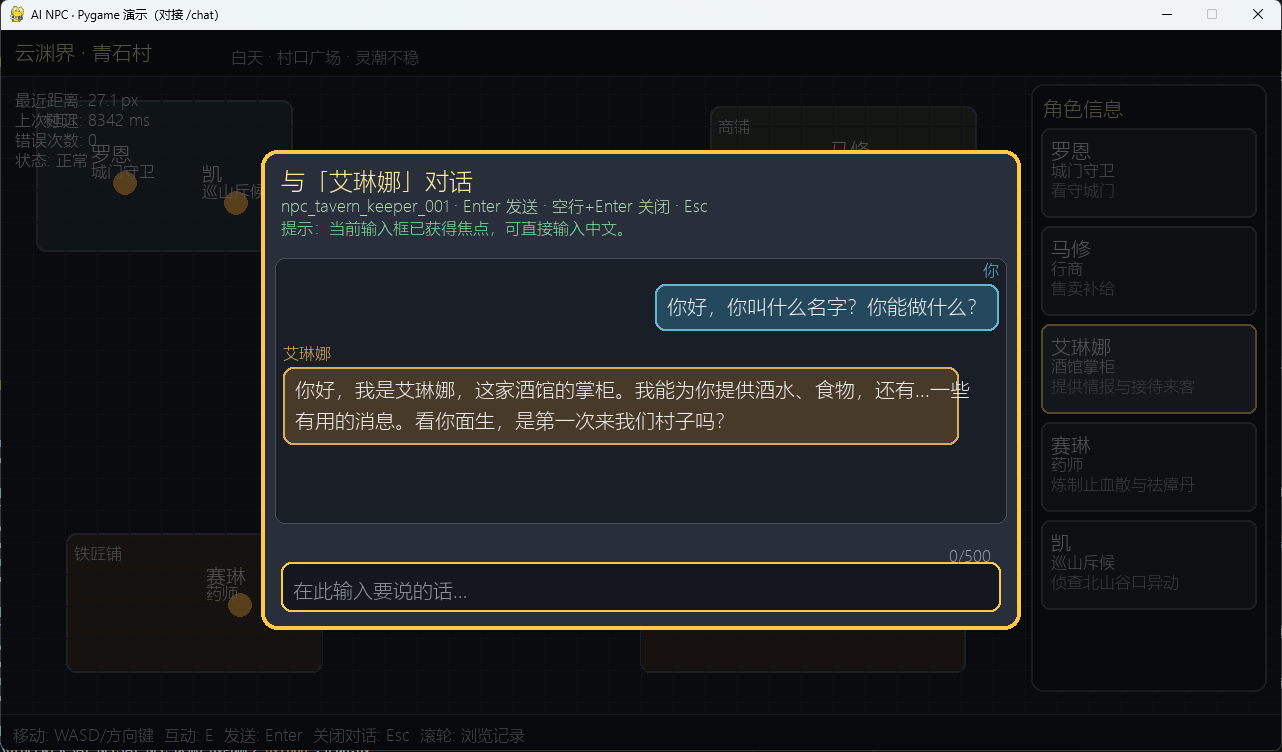
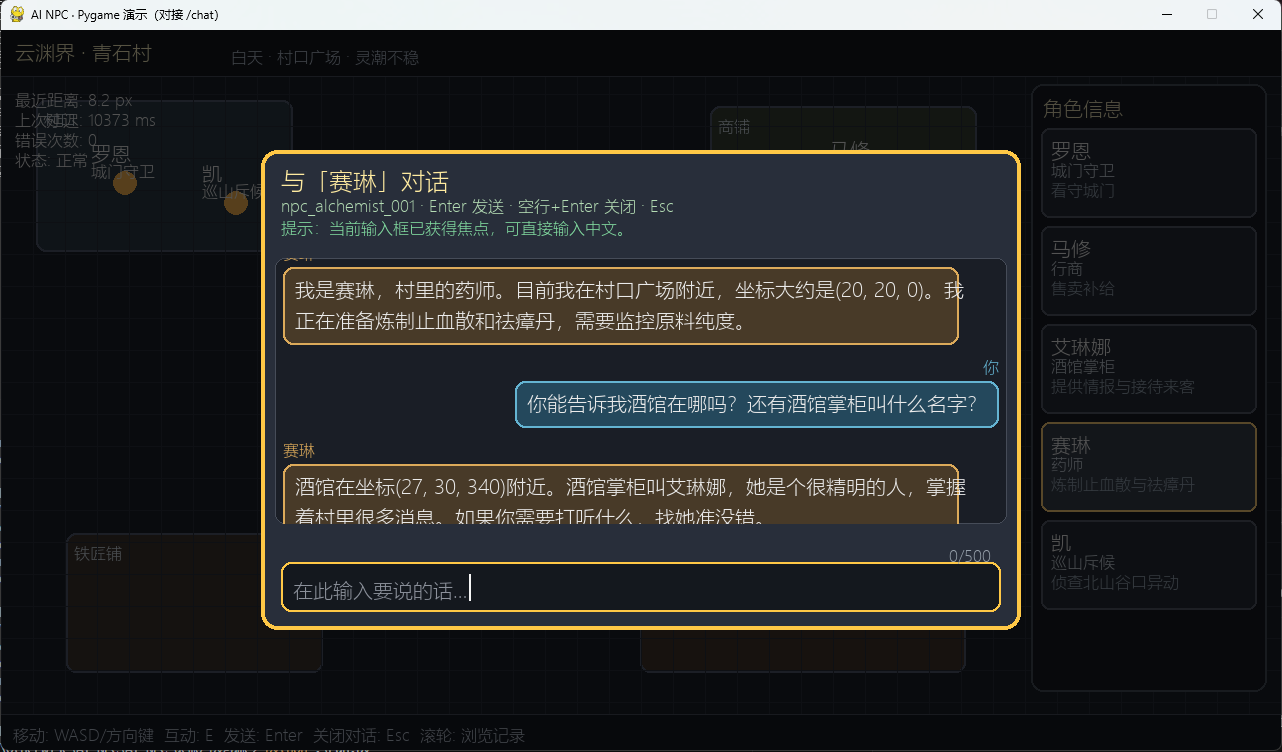
feat：更新坐标

diff --git a/AI-NPC-demo-pygame/game/npc_profiles.py b/AI-NPC-demo-pygame/game/npc_profiles.py
@@ -26,7 +26,7 @@ class NpcProfile:
 # - 罗恩/凯：村口与外沿
 # - 马修：商铺
 # - 艾琳娜：酒馆
-# - 赛琳：工坊（铁匠铺附近）
+# - 赛琳：广场
 NPC_PROFILES: tuple[NpcProfile, ...] = (
     NpcProfile(
         npc_id="npc_guard_001",
@@ -64,7 +64,7 @@ NPC_PROFILES: tuple[NpcProfile, ...] = (
         job="药师",
         task="炼制止血散与祛瘴丹",
         available_actions=("dialogue", "use_item", "idle"),
-        world_location={"x": 33, "y": 24, "z": 0},
+        world_location={"x": 20, "y": 20, "z": 0},
         screen_x=188.0,
         screen_y=548.0,
     ),

diff --git a/app/tools/location_tools.py b/app/tools/location_tools.py
@@ -6,6 +6,8 @@ from typing import Any
 PLACE_COORDINATES: dict[str, dict[str, Any]] = {
     "村口": {"x": 10, "y": 5, "z": 10},
     "商店": {"x": 42, "y": 18, "z": 220},
+    "商铺": {"x": 42, "y": 18, "z": 220},
+    "商场": {"x": 42, "y": 18, "z": 220},
     "铁匠铺": {"x": 55, "y": 12, "z": 30},
     "酒馆": {"x": 27, "y": 30, "z": 340},
     "广场": {"x": 20, "y": 20, "z": 450},

diff --git a/app/tools/npc_state_tools.py b/app/tools/npc_state_tools.py
@@ -28,7 +28,7 @@ NPC_STATE = {
         "available_actions": ["dialogue", "emote", "idle"],
     },
     "npc_alchemist_001": {
-        "location": {"x": 33, "y": 24, "z": 0},
+        "location": {"x": 20, "y": 20, "z": 0},
         "job": "药师",
         "task": "炼制止血散与祛瘴丹",
         "available_actions": ["dialogue", "use_item", "idle"],

diff --git a/AI-NPC-demo-pygame/game/layout.py b/AI-NPC-demo-pygame/game/layout.py
@@ -36,7 +36,7 @@ NPC_ANCHORS: dict[str, tuple[str, float, float]] = {
     "npc_scout_001": ("gate", 0.78, 0.68),
     "npc_merchant_001": ("shop", 0.58, 0.55),
     "npc_tavern_keeper_001": ("tavern", 0.55, 0.58),
-    "npc_alchemist_001": ("forge", 0.68, 0.52),
+    "npc_alchemist_001": ("square", 0.30, 0.52),
 }
 
 
